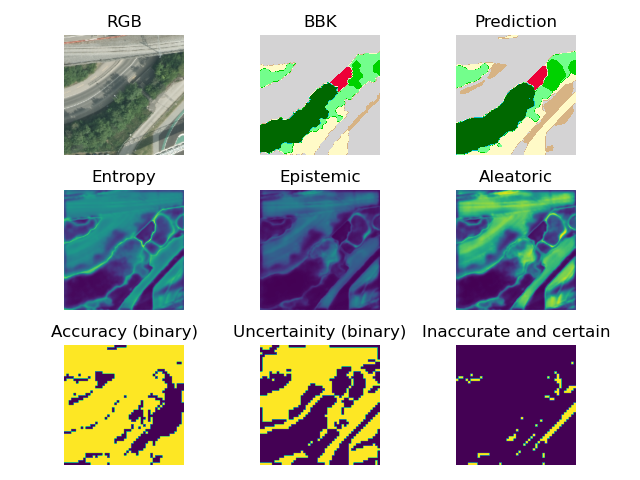
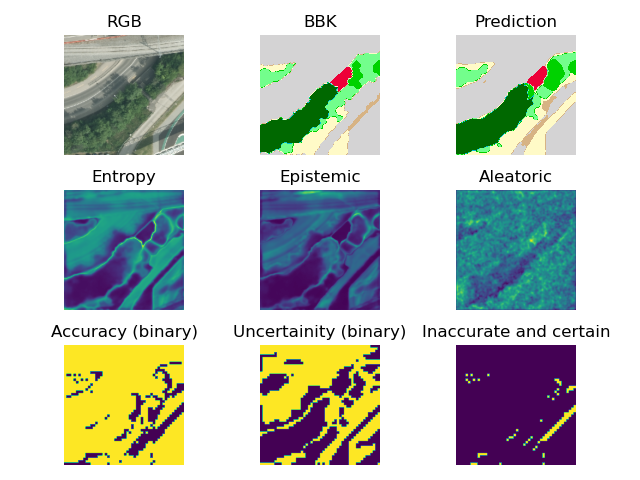
edited aleatoric

diff --git a/example_data_aleatoric.py b/example_data_aleatoric.py
@@ -8,13 +8,20 @@ import matplotlib.patches as mpatches
 import numpy as np
 from bayesian_unet import BayesianUNet
 
-# dropout activation
+# dropout activation and deactivation
 def enable_dropout(model):
 	""" Function to enable the dropout layers during test-time """
 	for m in model.modules():
 		if m.__class__.__name__.startswith('Dropout'):
 			m.train()
-			print("activated dropout")
+	#print("activated dropout")
+
+def disable_dropout(model):
+	""" Function to enable the dropout layers during test-time """
+	for m in model.modules():
+		if m.__class__.__name__.startswith('Dropout'):
+			m.eval()
+	#print("disabled dropout")
 
 
 # device
@@ -28,10 +35,9 @@ x = next(iter(dl))
 
 # load model
 net = BayesianUNet(n_channels=7, n_classes=9, bilinear=False).to(device=device)
-checkpoint_path = 'checkpoints_bayesian/checkpoint_epoch60.pth'
+checkpoint_path = 'checkpoints_b_augmented/checkpoint_epoch60.pth'
 net.load_state_dict(torch.load(checkpoint_path, map_location=device))
 net.eval()
-enable_dropout(net)
 
 nb_forward = 20
 
@@ -82,14 +88,19 @@ for i in dl:
              	#loop to add the noise
 				for k in range(image_aleatoric.size()[0]):
 					img = image_aleatoric[k,:,:,:].cpu().numpy()
-					add_noise = A.augmentations.transforms.GaussNoise (var_limit=20, mean=0, per_channel=True, always_apply=False, p=1)
+					add_noise = A.augmentations.transforms.GaussNoise (var_limit=10, mean=0, per_channel=True, always_apply=False, p=1)
 					image_aleatoric[k,:,:,:] = torch.tensor(add_noise(image=img)["image"]).to(device=device, dtype=torch.float32)
 
 				with torch.no_grad():
-					# predict
+					# predict with dropout
+					enable_dropout(net)
 					mask_pred = net(doc)
 					# concatenate prediction to the other made on the same batch
 					dropout_predictions = torch.cat((dropout_predictions,mask_pred.cpu().softmax(dim=1).unsqueeze(dim=0)),dim=0)
+					# predict noisy image
+					disable_dropout(net)
+					mask_pred = net(image_aleatoric)
+					# concatenate prediction to the other made on the same batch
 					aleatoric_predictions = torch.cat((aleatoric_predictions,mask_pred.cpu().softmax(dim=1).unsqueeze(dim=0)),dim=0)
 
 			# compute bayesian metrics
@@ -193,28 +204,6 @@ for i in dl:
 			plt.savefig(f'example_data/example_pred_bayesian{counter}.png')
 			plt.close()
 
-			
-
-			# # prediction image
-			# fig = plt.figure()
-			# plt.subplot(131)
-			# plt.imshow(rgb)
-			# # plt.imshow(bbk, cmap=bbk_cmap, norm=colors.BoundaryNorm(bbk_scale, len(bbk_scale)-1), alpha=0.4)
-			# plt.axis('off')
-			# plt.title('RGB')
-			# plt.subplot(132)
-			# #plt.imshow(rgb)
-			# plt.imshow(bbk, cmap=bbk_cmap, norm=colors.BoundaryNorm(bbk_scale, len(bbk_scale)-1), alpha=1)
-			# plt.axis('off')
-			# plt.title('BBK')
-			# plt.subplot(133)
-			# #plt.imshow(rgb)
-			# plt.imshow(prediction, cmap=bbk_cmap, norm=colors.BoundaryNorm(bbk_scale, len(bbk_scale)-1), alpha=1)
-			# plt.axis('off')
-			# plt.title('Prediction')
-			# plt.tight_layout()
-			# plt.savefig(f'example_data/example_pred{counter}.png')
-			# plt.close()
 
 			# data image
 			fig = plt.figure()

diff --git a/test_bayesian.py b/test_bayesian.py
@@ -234,6 +234,8 @@ if __name__ == '__main__':
                 'Validation Dice score': val_score,
                 'Global accuracy score': accuracy_score,
                 'IOU score': IOU_score,
+                'PA score':pa,
+                'PU score':pu,
                 'PAvPU score':pavpu,
                 'Metric per class':score_table, 
                 'conf_mat' : wandb.Image(plt),
